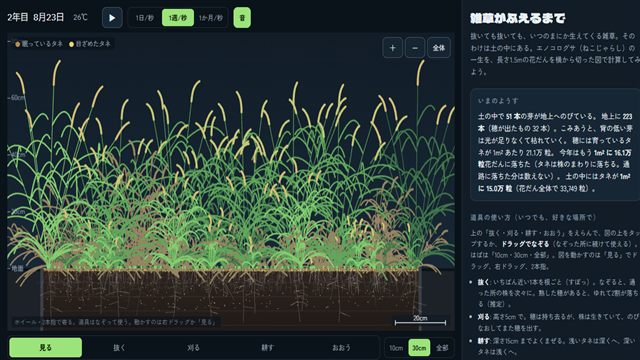
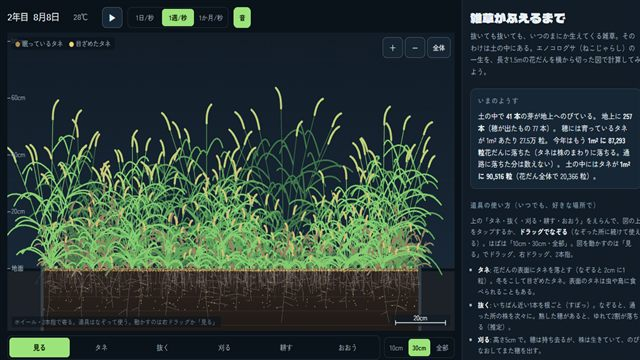
v005-drop-seed 雑草がふえるまで: まっさらな土から始め、はじめに「なんのタネを落とす？」メニュー（竹などは準備中）、「タネ」の道具で自分で落とす。落ちるタネの見た目は描いている穂からだけに

diff --git a/weed-growth/index.html b/weed-growth/index.html
@@ -20,6 +20,26 @@
     <div id="frame"><canvas id="cv" aria-label="細長い花だんを横から切った図。上は地上の株、下は土の中のタネと根。ホイールや2本指で、タネや根の先の中まで寄れる"></canvas>
       <div class="zoom" role="group" aria-label="ズーム"><button class="btn icon" id="zIn" aria-label="寄る" title="寄る">＋</button><button class="btn icon" id="zOut" aria-label="はなれる" title="はなれる">−</button><button class="btn small" id="zAll">全体</button></div>
       <div class="tip" id="tip" hidden></div>
+      <div class="menu" id="menu" role="dialog" aria-label="なんのタネを落とす？">
+        <div class="menu-in">
+          <h2 class="menu-h">なんのタネを落とす？</h2>
+          <p class="menu-p">タネのない、まっさらな花だん（5月1日）。タネをえらんで、図の上をタップ（なぞる）して何粒か落としてみよう。</p>
+          <div class="menu-g">
+            <button class="mcard" data-sp="foxtail">
+              <svg viewBox="0 0 64 64" aria-hidden="true"><g fill="none" stroke-linecap="round"><path d="M32 60 C31 44 30 30 34 14" stroke="#7dc66a" stroke-width="2.5"/><path d="M32 52 C24 42 18 38 10 36 M32 46 C40 38 46 34 54 33" stroke="#84cd70" stroke-width="2.5"/><path d="M34 14 C38 8 44 6 48 8" stroke="#d6be76" stroke-width="7"/></g></svg>
+              <b>エノコログサ</b><small>ねこじゃらし。夏の草。1本で1万粒ものタネ</small></button>
+            <button class="mcard" disabled>
+              <svg viewBox="0 0 64 64" aria-hidden="true"><g fill="none" stroke="#7fae8a" stroke-width="3" stroke-linecap="round"><path d="M24 60V8M40 60V16"/><path d="M20 20h8M20 36h8M36 28h8M36 44h8"/><path d="M8 56 C20 52 44 52 58 56" stroke="#a08a6a"/></g></svg>
+              <b>竹</b><small>地下の茎でふえる（準備中）</small></button>
+            <button class="mcard" disabled>
+              <svg viewBox="0 0 64 64" aria-hidden="true"><g fill="none" stroke-linecap="round"><path d="M32 60V30" stroke="#7dc66a" stroke-width="2.5"/><circle cx="32" cy="20" r="11" stroke="#d8dde4" stroke-width="2" stroke-dasharray="2 3"/><path d="M14 58 L24 50 M50 58 L40 50" stroke="#84cd70" stroke-width="3"/></g></svg>
+              <b>タンポポ</b><small>綿毛で遠くへ飛ぶ（準備中）</small></button>
+            <button class="mcard" disabled>
+              <svg viewBox="0 0 64 64" aria-hidden="true"><g fill="none" stroke-linecap="round"><path d="M8 52 C20 46 30 50 32 44 C34 50 46 46 56 52" stroke="#b07a6a" stroke-width="3"/><g fill="#7dc66a" stroke="none"><ellipse cx="18" cy="46" rx="5" ry="3"/><ellipse cx="46" cy="46" rx="5" ry="3"/><ellipse cx="32" cy="40" rx="4" ry="3"/></g><circle cx="32" cy="36" r="3" fill="#e8c45a" stroke="none"/></g></svg>
+              <b>スベリヒユ</b><small>抜いても実が熟す（準備中）</small></button>
+          </div>
+        </div>
+      </div>
       <div class="legend fl" id="legendFl"><span><i class="dot" style="background:#b58a52"></i>眠っているタネ</span><span><i class="dot" style="background:#f0cf72"></i>目ざめたタネ</span></div>
       <div class="zhint" id="zhint">ホイール・2本指で寄る。道具はなぞって使う。動かすのは右ドラッグか「見る」</div>
     </div>
@@ -50,8 +70,9 @@
 
     <section>
       <h2>道具の使い方（いつでも、好きな場所で）</h2>
-      <p class="cap">上の「抜く・刈る・耕す・おおう」をえらんで、図の上をタップするか、<b>ドラッグでなぞる</b>（なぞった所に続けて使える）。はばは「10cm・30cm・全部」。図を動かすのは「見る」でドラッグ、右ドラッグ、2本指。</p>
+      <p class="cap">上の「タネ・抜く・刈る・耕す・おおう」をえらんで、図の上をタップするか、<b>ドラッグでなぞる</b>（なぞった所に続けて使える）。はばは「10cm・30cm・全部」。図を動かすのは「見る」でドラッグ、右ドラッグ、2本指。</p>
       <ul class="cap tools-note">
+        <li><b>タネ</b>: 花だんの表面にタネを落とす（なぞると 2cm に1粒）。冬をこして目ざめたタネ。表面のタネは虫や鳥に食べられることもある。</li>
         <li><b>抜く</b>: いちばん近い1本を根ごと（すぽっ）。なぞると、通った所の株を次々に。熟した穂があると、ゆれて2割が落ちる（推定）。</li>
         <li><b>刈る</b>: 高さ5cm で。穂は持ち去るが、株は生きていて、のびなおしてまた穂を出す。</li>
         <li><b>耕す</b>: 深さ15cm までよくまぜる。浅いタネは深くへ、深いタネは浅くへ。</li>

diff --git a/weed-growth/js/ui.js b/weed-growth/js/ui.js
@@ -2,7 +2,7 @@
 'use strict';
 const $ = id => document.getElementById(id);
 const SPEEDS = [['1日<span class="ps">/秒</span>', 1], ['1週<span class="ps">/秒</span>', 7], ['1か月<span class="ps">/秒</span>', 30]];   // 狭い画面では「/秒」を隠す
-const TOOLS = [['見る', 'look'], ['抜く', 'pull'], ['刈る', 'mow'], ['耕す', 'till'], ['おおう', 'cover']];
+const TOOLS = [['見る', 'look'], ['タネ', 'seed'], ['抜く', 'pull'], ['刈る', 'mow'], ['耕す', 'till'], ['おおう', 'cover']];
 const WIDTHS = [['10cm', 0.1], ['30cm', 0.3], ['全部', 2.2]];
 const UI = { speed: 7, playing: true, lastRo: 0, lastTl: 0 };
 
@@ -21,11 +21,11 @@ function setPressed(el, v) { el.setAttribute('aria-pressed', String(!!v)); }
 
 function buildUI() {
   seg($('segSpeed'), SPEEDS, UI.speed, v => { UI.speed = v; });
-  seg($('segTool'), TOOLS, TOOL, v => { TOOL = v; cv.classList.toggle('tool', v !== 'look'); });
+  setTool(TOOL);
+  for (const b of $('menu').querySelectorAll('.mcard[data-sp]')) b.onclick = () => chooseSeed(b.dataset.sp);
   seg($('segWidth'), WIDTHS, TOOL_W, v => { TOOL_W = v; });
   seg($('segScen'), Object.entries(SCENARIOS).map(([k, v]) => [v.name, k]), S.scen, v => {
-    restartSim(v); $('scenNote').textContent = SCENARIOS[v].note; UI.lastTl = 0;
-    if (SCENARIOS[v].one) aimAt(BED_W / 2, 0.01, 0.1); else resetView();   // 1粒は、そのタネのそばから
+    startScenario(v);
   });
   $('scenNote').textContent = SCENARIOS[S.scen].note;
   $('play').onclick = () => { UI.playing = !UI.playing; syncPlay(); };
@@ -50,6 +50,22 @@ function buildUI() {
     if (d < S.day - 0.5) { restoreSnap(snapIndexAt(Math.max(0, d))); UI.lastTl = 0; updateReadout(true); }
   });
 }
+// はじめかた: まっさらな土なら「なんのタネを落とす？」を出して止めておく（タネを落とすと動きだす）
+function startScenario(v) {
+  restartSim(v); $('scenNote').textContent = SCENARIOS[v].note; UI.lastTl = 0;
+  const empty = !!SCENARIOS[v].empty;
+  $('menu').hidden = !empty;
+  if (empty) { UI.playing = false; aimAt(BED_W / 2, 0.14, 0.6, 0.01); viewTick(1); }
+  else { UI.playing = true; resetView(); if (TOOL === 'seed') setTool('look'); }
+  syncPlay(); updateReadout(true);
+}
+function chooseSeed(sp) {   // いまはエノコログサだけ（SPECIES に足した種をここでえらべるように）
+  SP = SPECIES[sp]; $('menu').hidden = true; setTool('seed');
+}
+function setTool(v) {
+  TOOL = v; cv.classList.toggle('tool', v !== 'look');
+  seg($('segTool'), TOOLS, v, t => { TOOL = t; cv.classList.toggle('tool', t !== 'look'); });
+}
 function syncPlay() { $('play').textContent = UI.playing ? '❚❚' : '▶'; $('play').setAttribute('aria-label', UI.playing ? '止める' : '進める'); }
 
 // ---------- 数字といまのようす ----------
@@ -73,8 +89,12 @@ function nowText(c, T) {
   if (S.opts.autoPull) out.push('実験中: 穂が出た株は、その日のうちに抜いている。');
   if (c.up === 0 && c.under === 0) {
     out.push(T < SP.tb ? `寒くて（${T.toFixed(0)}℃）タネは芽を出せない。` : 'いまは地上に株がない。');
-    out.push(bank + (c.bank ? `。そのうち ${Math.round(c.dorm / Math.max(1, c.bank) * 100)}% は眠っている（休眠）。眠っているタネは、冬の寒さで少しずつ目ざめる。` : '。'));
-    if (!c.bank && SCENARIOS[S.scen].one && S.tot.shed === 0 && S.day < 300) out.push('1粒のタネが暖かくなるのを待っている（深さ 1cm）。');
+    out.push(bank + (c.dorm ? `。そのうち ${Math.round(c.dorm / Math.max(1, c.bank) * 100)}% は眠っている（休眠）。眠っているタネは、冬の寒さで少しずつ目ざめる。` : '。'));
+    if (SCENARIOS[S.scen].empty && S.tot.dropped && !S.tot.germ && c.bank) {
+      let top = 0; for (let x = 0; x < NX; x++) top += S.SD[x] + S.SN[x];
+      if (top === c.bank) out.push('落としたタネは地面の表面にある。表面は乾きやすくて芽を出しにくく、虫や鳥に食べられることもある（推定）。1粒だとなかなか出ない。何粒か落とすか、「耕す」で土にまぜると出やすい。');
+    }
+    if (SCENARIOS[S.scen].empty && !S.tot.dropped) out.push('まだタネがない。上の「タネ」をえらんで、花だんの上をタップ（なぞる）してタネを落としてみよう。');
     if (!c.bank && S.tot.shed > 0) out.push('タネがなくなった。もう生えてこない。');
   } else {
     if (c.under) out.push(`土の中で <b>${c.under} 本</b>の芽が地上へのびている。`);

diff --git a/weed-growth/js/model.js b/weed-growth/js/model.js
@@ -63,12 +63,12 @@ function dateOf(day) {
 
 // ---------- 状態 ----------
 const S = {
-  day: 0, scen: 'garden', SD: new Int32Array(NX * NZ), SN: new Int32Array(NX * NZ),
+  day: 0, scen: 'empty', SD: new Int32Array(NX * NZ), SN: new Int32Array(NX * NZ),
   plants: [], nid: 1, sheet: new Uint8Array(NX),
   opts: { xray: true, noDorm: false, autoPull: false },
   tot: null, year: 1, yr: null, ev: [], acc: { d: 0, cold: 0, warm: 0 },
 };
-function zeroTot() { return { shed: 0, lost: 0, decayed: 0, eaten: 0, germ: 0, fatal: 0, emerged: 0, thinned: 0, frost: 0, pulled: 0, removedSeeds: 0, headed: 0 }; }
+function zeroTot() { return { dropped: 0, shed: 0, lost: 0, decayed: 0, eaten: 0, germ: 0, fatal: 0, emerged: 0, thinned: 0, frost: 0, pulled: 0, removedSeeds: 0, headed: 0 }; }
 function zeroYear() { return { shed: 0, emerged: 0, firstEm: false, firstHead: false, firstShed: false, frost: false }; }
 const H = { snaps: [], plants: new Float32Array(MAX_DAYS + 2).fill(NaN), heads: new Float32Array(MAX_DAYS + 2).fill(NaN), bank: new Float32Array(MAX_DAYS + 2).fill(NaN) };
 const DF = new Float32Array(NZ);  // 深さごとの芽の出やすさ
@@ -87,13 +87,11 @@ function logEvent(text, kind) {
 
 function restartSim(scen) {
   S.scen = scen || S.scen; R.s = 12345;
-  S.day = 0; S.year = 1; S.SD.fill(0); S.SN.fill(0); S.plants = []; S.nid = 1; S.sheet.fill(0);
+  const sc = SCENARIOS[S.scen];
+  S.day = sc.startDay || 0; S.year = yearOf(S.day); S.SD.fill(0); S.SN.fill(0); S.plants = []; S.nid = 1; S.sheet.fill(0);
   S.tot = zeroTot(); S.yr = zeroYear(); S.ev = []; S.acc = { d: 0, cold: 0, warm: 0 };
   H.snaps = []; H.plants.fill(NaN); H.heads.fill(NaN); H.bank.fill(NaN);
-  const sc = SCENARIOS[S.scen];
-  if (sc.one) {
-    S.SN[2 * NX + Math.floor(NX / 2)] = 1;   // 1cm の深さ（0.5cm のます目の3段目）
-  } else {
+  if (!sc.empty) {
     const n = Math.round(sc.perM2 * BED_W * BED_D), zmax = Math.round(sc.depth / DZC);
     for (let k = 0; k < n; k++) {
       const i = Math.floor(rnd() * zmax) * NX + Math.floor(rnd() * NX);
@@ -212,7 +210,7 @@ function disperse(p, k) {
     const i = Math.floor(x / DXC);
     if (nd) S.SN[i]++; else S.SD[i]++;
   }
-  if (k > 0 && typeof fxShed === 'function') fxShed(px, Math.max(0.01, p.H), k);   // 見た目だけ
+  if (k > 0 && typeof fxShed === 'function') fxShed(p, k);   // 見た目だけ（穂から落ちるところ）
   if (k > 0 && p.st !== 3 && !S.yr.firstShed) { S.yr.firstShed = true; logEvent('熟したタネが落ちはじめた（' + S.year + '年目）', 'shed'); }
 }
 
@@ -370,6 +368,7 @@ function endStroke(k) {
   if (!k) return;
   const fd = dateOf(S.day), d = `${fd.m}月${fd.d}日 `, len = Math.max(1, Math.round((k.x1 - k.x0) * 100));
   const sd = k.seeds + k.drop ? `（穂のタネ ${k.seeds} 粒を持ち出し、${k.drop} 粒が落ちた）` : '';
+  if (k.tool === 'seed' && k.n) logEvent(d + `タネを ${k.n} 粒落とした（冬をこした、目ざめたタネ）`, 'act');
   if (k.tool === 'pull' && k.n) logEvent(d + `${k.n}本抜いた` + sd, 'act');
   if (k.tool === 'mow' && k.n) logEvent(d + `${k.n}本を高さ ${Math.round(k.h * 100)}cm で刈った` + sd, 'act');
   if (k.tool === 'till' && k.cols.size) logEvent(d + `${k.cols.size}cm を深さ ${Math.round(k.depth * 100)}cm まで耕した` + (k.n ? `（株 ${k.n} 本をすきこんだ）` : ''), 'act');
@@ -379,6 +378,15 @@ function span(k, x0, x1) { if (k) { k.x0 = Math.min(k.x0, x0); k.x1 = Math.max(k
 // 1つのストロークで1回だけ使うための仮の stroke（タップや窓口から呼んだとき）
 function once(tool, fn) { const k = newStroke(tool); const r = fn(k); endStroke(k); return r; }
 
+// タネを落とす（ユーザーが手で）: 表面（0〜5mm）に目ざめたタネを1粒。なぞると 2cm ごとに1粒
+function dropSeed(x, k) {
+  if (!k) return once('seed', k2 => dropSeed(x, k2));
+  if (x < 0 || x >= BED_W) return false;
+  if (k.lastX != null && Math.abs(x - k.lastX) < 0.02) return false;
+  k.lastX = x; k.n++; span(k, x, x);
+  S.SN[clamp(Math.floor(x / DXC), 0, NX - 1)]++; S.tot.dropped++;
+  return true;
+}
 function pullAt(x, y, k) {   // y は地上の高さ（画面でさわった所）。いちばん近い株
   if (!k) return once('pull', k2 => pullAt(x, y, k2));
   let best = null, bd = 1e9;

diff --git a/weed-growth/js/draw.js b/weed-growth/js/draw.js
@@ -7,10 +7,15 @@ const COL = {
   dead: [150, 132, 98], pan: [176, 214, 120], ripe: [214, 190, 118], ink: '#e8f0f4', muted: '#a3b4bf', sheet: '#6d7d8c', acc: '#9be37a',
 };
 const FX = [];   // 落ちるタネの見た目だけ（計算には関係ない）
-function fxShed(x, y, k) {
-  if (FX.length > 120) return;
-  for (let i = 0; i < Math.min(3, k); i++) FX.push({ x, y, vx: (Math.random() - 0.5) * 0.25, vy: 0, t: 0 });
+// 穂から落ちるタネ: いま描いている穂（p._g）のどこかから、ときどき1粒（毎回出すと、ずっと降って見えるので）
+function fxShed(p, k) {
+  if (FX.length > 60 || Math.random() > 0.3) return;
+  const G = p._g; if (!G || !G.pans.length) return;
+  const pn = G.pans[Math.floor(Math.random() * G.pans.length)], q = pn.pts[3 + Math.floor(Math.random() * 8)];
+  FX.push({ x: q.x, y: q.y, vx: (Math.random() - 0.5) * 0.1, vy: 0, t: 0, c: COL.ripe });
 }
+// 手で落としたタネ（さわった高さから。土の中をさわったら少し上から）
+function fxDrop(x, y) { FX.push({ x, y: Math.max(0.04, y), vx: 0, vy: 0, t: 0, c: [240, 207, 114], big: true }); }
 // 抜いたときの「すぽん」（見た目と音だけ。計算には関係ない）: 根ごと土から出て、少し跳ねて傾き、消える。土が飛ぶ
 const PULLFX = [];
 const SND = { on: true, ctx: null, last: 0 };
@@ -109,6 +114,11 @@ function drawScene() {
   drawFX();
   drawRulers();
   drawToolPreview();
+  if (SCENARIOS[S.scen].empty && !S.tot.dropped && $('menu').hidden) {   // まだタネを落としていないとき
+    g.font = '700 15px ' + getComputedStyle(document.body).fontFamily; g.textAlign = 'center';
+    g.fillStyle = COL.acc; g.fillText(TOOL === 'seed' ? '花だんの上をタップ（なぞる）してタネを落とそう ↓' : '「タネ」をえらんで、花だんの上をタップ ↓', VIEW.w / 2, Math.max(30, Y(0) - 60));
+    g.textAlign = 'left';
+  }
 }
 
 // ---------- 土の中 ----------
@@ -351,8 +361,10 @@ function drawPanicles(p, G) {
 // ---------- 見た目だけの動き・ものさし ----------
 function drawFX() {
   if (!FX.length) return;
-  g.fillStyle = COL.ripe ? rgb(COL.ripe) : '#ccc';
-  for (const f of FX) { const d = Math.max(1.5, SP.seedLen * VIEW.s); g.fillRect(X(f.x) - d / 2, Y(f.y) - d / 2, d, d * 0.7); }
+  for (const f of FX) {
+    const d = Math.max(f.big ? 3 : 1.5, SP.seedLen * VIEW.s); g.fillStyle = rgb(f.c || COL.ripe);
+    g.beginPath(); g.ellipse(X(f.x), Y(f.y), d / 2, d * 0.32, 1.2, 0, Math.PI * 2); g.fill();
+  }
 }
 function fxTick(dt) {
   for (const f of FX) { f.vy -= 2.5 * dt; f.x += f.vx * dt; f.y += f.vy * dt; f.t += dt; }

diff --git a/weed-growth/js/main.js b/weed-growth/js/main.js
@@ -35,6 +35,14 @@ function paintSeg(ax, ay, bx, by) {
   if (!STROKE) return;
   const a = toWorld(ax, ay), b = toWorld(bx, by), hw = TOOL_W / 2;
   const x0 = Math.max(0, Math.min(a.x, b.x) - hw), x1 = Math.min(BED_W, Math.max(a.x, b.x) + hw);
+  if (TOOL === 'seed') {   // 押した所に1粒。なぞると 2cm ごとに1粒（落ちていくところも見せる）
+    const n = Math.max(1, Math.ceil(Math.hypot(bx - ax, by - ay) / 3));
+    for (let i = (ax === bx && ay === by) ? n : 1; i <= n; i++) {
+      const w = toWorld(ax + (bx - ax) * i / n, ay + (by - ay) * i / n);
+      if (dropSeed(w.x, STROKE)) fxDrop(w.x, w.y);
+    }
+    updateReadout(true); return;
+  }
   if (TOOL === 'pull') {   // 押した所はいちばん近い株。なぞると、通った線から 10px（1.2cm 以上）以内の株を次々に
     if (ax === bx && ay === by) { const w = toWorld(ax, ay); pullAt(w.x, Math.max(0, w.y), STROKE); }
     else {
@@ -49,7 +57,12 @@ function paintSeg(ax, ay, bx, by) {
   if (TOOL === 'cover') cover(x0, x1, !S.sheet[clamp(Math.floor(a.x / DXC), 0, NX - 1)], STROKE);
   computeLight(); updateReadout(true);
 }
-function paintEnd() { endStroke(STROKE); STROKE = null; UI.lastTl = 0; updateReadout(true); }
+function paintEnd() {
+  const first = STROKE && STROKE.tool === 'seed' && STROKE.n && S.tot.dropped === STROKE.n;
+  endStroke(STROKE); STROKE = null; UI.lastTl = 0;
+  if (first && !UI.playing) { UI.playing = true; syncPlay(); }   // はじめてタネを落としたら動きだす
+  updateReadout(true);
+}
 let tipTimer = 0;
 function onHover(px, py, touch) {
   HOVER = px < 0 ? null : { px, py };
@@ -59,8 +72,7 @@ function onHover(px, py, touch) {
 }
 
 window.addEventListener('resize', () => { resizeView(); UI.lastTl = 0; });
-restartSim('garden');
-buildUI(); resizeView(); syncPlay();
+buildUI(); resizeView(); startScenario('empty');
 setupInput({ tap: () => {}, hover: onHover, isPaint: () => TOOL !== 'look', paintStart, paint: paintSeg, paintEnd });
 requestAnimationFrame(loop);
 

diff --git a/weed-growth/css/style.css b/weed-growth/css/style.css
@@ -30,6 +30,18 @@ button,input{font:inherit;color:inherit}
 .tip{position:absolute;max-width:290px;background:rgba(8,12,18,.9);border:1px solid var(--line2);border-radius:8px;padding:6px 10px;font-size:12px;line-height:1.55;color:var(--muted);pointer-events:none;z-index:3}
 .tip b{color:var(--ink)}
 
+/* はじめに出す「なんのタネを落とす？」 */
+.menu{position:absolute;inset:0;z-index:4;display:flex;align-items:center;justify-content:center;background:rgba(10,18,26,.86);padding:12px;overflow:auto}
+.menu-in{max-width:620px;text-align:center}
+.menu-h{font:400 22px/1.3 var(--f-display);color:var(--ink);letter-spacing:.04em;margin:0 0 6px}
+.menu-p{margin:0 0 14px;color:var(--muted);font-size:13px}
+.menu-g{display:grid;grid-template-columns:repeat(4,1fr);gap:10px}
+.mcard{display:flex;flex-direction:column;align-items:center;gap:4px;border:1px solid var(--line2);background:var(--raise);border-radius:12px;padding:10px 8px;cursor:pointer;line-height:1.35}
+.mcard svg{width:56px;height:56px}
+.mcard b{font-size:14px}
+.mcard small{font-size:11px;color:var(--muted)}
+.mcard:not([disabled]):hover{border-color:var(--acc);box-shadow:0 0 0 1px var(--acc) inset}
+.mcard[disabled]{opacity:.45;cursor:default}
 #tools{display:flex;gap:8px;align-items:center;flex-wrap:wrap}
 #segTool{flex:1;min-width:260px}
 #ro{display:grid;grid-template-columns:repeat(3,1fr);gap:8px}
@@ -105,6 +117,14 @@ button:focus-visible,input:focus-visible{outline:2px solid var(--acc);outline-of
   .zhint{display:none}
   .legend.fl{font-size:10px}
   #panel{border-left:0;padding:14px 14px 40px;overflow:visible}
+}
+@media (max-width: 600px){
+  .menu-g{grid-template-columns:repeat(2,1fr);gap:6px}
+  .mcard{padding:6px 4px;gap:2px}
+  .mcard svg{width:30px;height:30px}
+  .mcard small{font-size:10px}
+  .menu-h{font-size:17px}
+  .menu-p{font-size:11.5px;margin-bottom:8px}
 }
 @media (max-width: 420px){
   #bar{flex-wrap:nowrap}

diff --git a/weed-growth/launcher.html b/weed-growth/launcher.html
@@ -42,7 +42,7 @@ td a{color:var(--ink)}
   </section>
   <section>
     <h2>すべてのバックアップ</h2>
-    <table><tr><td>v004-drag-pull</td><td>道具をドラッグでなぞる・抜くと「すぽっ」・図の株を少なく・寄るとタネは手前の切り口だけ。Git のコミットに記録</td><td>2026-10-15</td></tr><tr><td>v003-lighter</td><td>軽くした（花だん 1.5m×15cm、芽が多いときはまとめて計算）。Git のコミットに記録</td><td>2026-10-15</td></tr><tr><td>v002-stageA</td><td><a href="versions/v002-stageA/index.html">段階A（エノコログサ1種・道具4つ・実験3つ・ズームの中）</a></td><td>2026-10-15</td></tr><tr><td>v001-start</td><td><a href="versions/v001-start/index.html">雛形（new-app.ps1）</a></td><td>2026-10-15</td></tr></table>
+    <table><tr><td>v005-drop-seed</td><td>まっさらな土から・はじめに「なんのタネを落とす？」・「タネ」の道具・落ちるタネの見た目を直した。Git のコミットに記録</td><td>2026-10-15</td></tr><tr><td>v004-drag-pull</td><td>道具をドラッグでなぞる・抜くと「すぽっ」・図の株を少なく・寄るとタネは手前の切り口だけ。Git のコミットに記録</td><td>2026-10-15</td></tr><tr><td>v003-lighter</td><td>軽くした（花だん 1.5m×15cm、芽が多いときはまとめて計算）。Git のコミットに記録</td><td>2026-10-15</td></tr><tr><td>v002-stageA</td><td><a href="versions/v002-stageA/index.html">段階A（エノコログサ1種・道具4つ・実験3つ・ズームの中）</a></td><td>2026-10-15</td></tr><tr><td>v001-start</td><td><a href="versions/v001-start/index.html">雛形（new-app.ps1）</a></td><td>2026-10-15</td></tr></table>
   </section>
 </main>
 </body>

diff --git a/_dev/tools/thumb.html b/_dev/tools/thumb.html
@@ -21,8 +21,8 @@ const click = (w, sel) => { const e = w.document.querySelector(sel); if (e) e.cl
 const SETUP = {
   // いのちの系統樹（はじめの画面のまま）
   'tree-of-life': async w => { await wait(5000); const h = w.__trofli; h.V.resize(); h.V.settle(); },   // はじめの画面（哺乳類の目のならび）
-  // 雑草がふえるまで（ふつうの庭の2年目の8月: 穂がそろい、土の中にタネ・根）
-  'weed-growth': async w => { await wait(800); const h = w.__wegr; h.set('play', false); h.run(365 + 160, 1); h.draw(); await wait(300); },
+  // 雑草がふえるまで（はじめのメニューを閉じ、ふつうの庭の2年目の8月: 穂がそろい、土の中にタネ・根）
+  'weed-growth': async w => { await wait(800); const h = w.__wegr; w.startScenario('garden'); h.set('play', false); h.run(365 + 160, 1); h.draw(); await wait(300); },
   // ほこりが積もるまで（2日たって、ふとんをはたいた直後: 舞い上がった皮ふと繊維、すみ・家具の上に積もった層）
   'house-dust': async w => { await wait(800); const h = w.__hodu; h.S.playing = false; h.S.speed = 3600; h.simRun(2 * 86400); h.S.speed = 1; h.act('bed'); h.simRun(15); await wait(300); },
   // 脱毛のしくみ（剃ってから光をあてた直後: 伸びている毛の根もとが熱で光る）

diff --git a/weed-growth/js/data.js b/weed-growth/js/data.js
@@ -69,10 +69,10 @@ const SPECIES = {
 
 // ---------- はじめかた ----------
 const SCENARIOS = {
+  empty:  { name: 'まっさらな土', perM2: 0, empty: true, startDay: 61,
+    note: 'タネのない土（5月1日から）。「タネ」の道具で、花だんにタネを落としてみよう。' },
   garden: { name: 'ふつうの庭', perM2: 1000, awake: 0.6, depth: 0.15,
     note: '土の中にエノコログサのタネが 1m² に 1,000粒（畑のおよそ半分はこれより多い: Forcella ら 1993）。' },
   field:  { name: '草ぼうぼうの空き地', perM2: 15000, awake: 0.6, depth: 0.10,
     note: '去年たくさん実った空き地。1m² に 15,000粒（推定）。' },
-  one:    { name: 'タネ1粒だけ', perM2: 0, one: true,
-    note: 'まっさらな土の 1cm の深さに、目ざめたタネを1粒だけ。' },
 };

diff --git a/weed-growth/DEVNOTES.md b/weed-growth/DEVNOTES.md
@@ -5,11 +5,11 @@
 エノコログサ（ねこじゃらし）の一生を、長さ1.5m・幅30cm の花だん（計算は手前半分の 15cm）を横から切った断面で計算するアプリ。企画は `PLAN.md`。
 
 ## 別セッションで続けるとき（まずここ）
-- **いまの状態**: v004-drag-pull（2026-10-15。道具をドラッグでなぞって使う、抜くと「すぽっ」、まとめる株を増やして図をすっきり、寄るとタネは手前 1cm の切り口だけ）。その前は v003-lighter（花だん 1.5m×15cm）、v002-stageA（段階A）。保管庫（`archive.html`）に掲載。入口には載せない（RULES 8.1）。英語はまだ（入口へ移すときに）。
-- **次にやること**: ユーザーに見てもらって感想を聞く。そのあと `PLAN.md` の段階B（竹＝地下茎、タンポポ＝綿毛、スベリヒユ）。種を足すときは `data.js` の `SPECIES` に足し、`model.js` の `SP` を切りかえる形に（株の形 `shapes.js` は種ごとに関数を分ける）。
+- **いまの状態**: v005-drop-seed（2026-10-15。まっさらな土から始め、はじめに「なんのタネを落とす？」のメニュー、「タネ」の道具で自分で落とす。穂から落ちるタネの見た目を直した）。その前は v004-drag-pull（道具をドラッグでなぞって使う、抜くと「すぽっ」、まとめる株を増やして図をすっきり、寄るとタネは手前 1cm の切り口だけ）。その前は v003-lighter（花だん 1.5m×15cm）、v002-stageA（段階A）。保管庫（`archive.html`）に掲載。入口には載せない（RULES 8.1）。英語はまだ（入口へ移すときに）。
+- **次にやること**: ユーザーに見てもらって感想を聞く。そのあと `PLAN.md` の段階B（竹＝地下茎、タンポポ＝綿毛、スベリヒユ）。はじめのメニュー `#menu` にカードがある（いまは「準備中」で押せない）。種を足すときは `data.js` の `SPECIES` に足し、カードに `data-sp` をつけると `chooseSeed()` が `SP` を切りかえる（株の形 `shapes.js` は種ごとに関数を分ける。1つの花だんに2種まぜるなら、株ごとに種を持たせる）。
 - **読む順**: `../RULES.md` → このファイル → 下の「ファイル構成」で関係するファイルだけ。数値を変えるなら `js/data.js` だけ。
 - **動かし方**: サーバー `apps`（`.claude/launch.json`）で http://localhost:8765/weed-growth/ 。
-- **デバッグ用**: `window.__wegr` — `S`（状態: `day` 始めからの日数・`SD` `SN` 眠っている／目ざめたタネのます目・`plants`・`sheet`・`opts`・`tot` 合計・`yr` 今年・`ev` できごと）、`H`（`snaps` 巻きもどし用・`plants` `heads` `bank` 日ごとの数）、`counts()`、`run(日, h=1)`（描かずに進める。ペインが裏だと rAF が止まるので）、`draw()`、`restart(scen)`、`pullAt(x, y)` `mow(x0, x1, h)` `till(x0, x1, d)` `cover(x0, x1, on)`、`jump('seed'|'sprout'|'root'|'flower')`、`aimAt(x, y, 幅)`、`describeAt(px, py)`、`restoreSnap(i)` `snapIndexAt(day)`、`set(k, v)`（`speed` `play` か `opts` の名前）、`tool(t, w)`、`stroke([[px,py],…])`（画面の点の列でドラッグをまねる。1点ならタップ）。例外は `window.__wegrErr`。寄る動きを一気に終わらせるには `viewTick(5)`。
+- **デバッグ用**: `window.__wegr` — `S`（状態: `day` 始めからの日数・`SD` `SN` 眠っている／目ざめたタネのます目・`plants`・`sheet`・`opts`・`tot` 合計・`yr` 今年・`ev` できごと）、`H`（`snaps` 巻きもどし用・`plants` `heads` `bank` 日ごとの数）、`counts()`、`run(日, h=1)`（描かずに進める。ペインが裏だと rAF が止まるので）、`draw()`、`restart(scen)`、`pullAt(x, y)` `mow(x0, x1, h)` `till(x0, x1, d)` `cover(x0, x1, on)`、`jump('seed'|'sprout'|'root'|'flower')`、`aimAt(x, y, 幅)`、`describeAt(px, py)`、`restoreSnap(i)` `snapIndexAt(day)`、`set(k, v)`（`speed` `play` か `opts` の名前）、`tool(t, w)`（`'seed'` `'pull'` `'mow'` `'till'` `'cover'` `'look'`）、`startScenario('empty'|'garden'|'field')`（ページの関数）、`stroke([[px,py],…])`（画面の点の列でドラッグをまねる。1点ならタップ）。例外は `window.__wegrErr`。寄る動きを一気に終わらせるには `viewTick(5)`。
 - **区切りごとに**: 「確認のしかた」と smoke.ps1 → 下の「状態」に1行 → `launcher.html` の表 → 公開前チェック → commit（節目だけ versions/ へコピーしてカードに。RULES 3章）。
 - **ユーザーの好み**: 正確さ（推定と測った値を分けて書く）。1つの花だんで、いつでも自分で試せる形（押して進める型にしない）。濃紺の線の図。スマホでは図と数字を上に固定。ホイールで中まで寄れること（依頼のときの言葉）。
 
@@ -20,17 +20,19 @@
 | `index.html` | 骨組み（doctype なし）。左（スマホは上に固定）: `#bar`（日付・気温・再生・速さ）`#frame`（`#cv`・ズーム・`#tip` 説明・色の見方）`#tools`（道具 `#segTool`・はば `#segWidth`）`#ro`（地上の株・土の中のタネ・今年落ちたタネ）。右（スマホは下）: いまのようす `#now`・道具の使い方・時間のグラフ `#tl`・寄って見る `#jumps`・はじめから `#segScen`・実験 `#tgXray` `#tgNoDorm` `#tgAutoPull`・できごと `#log`・しくみ・簡単にしているところ・このアプリについて／おもな出どころ | 読み込み順: data → model → view → shapes → draw → micro → ui → main |
 | `css/style.css` | PC は右パネル 370px。899px 以下は `#stage` を sticky で上に固定、420px 以下は道具のボタンを詰める | |
 | `js/data.js` | 花だん `BED_W` `BED_D` `SOIL_D`、タネのます目 `NX` `DXC` `NZ` `DZC`、光のます目 `LX` `LY` `LC`・高さの段 `HEDGE`、`MAX_DAYS` `SNAP_EVERY`、気温 `TOKYO_T` `T_NOISE` `START_DOY`、種の値 `SPECIES.foxtail`、はじめかた `SCENARIOS` | |
-| `js/model.js` | 乱数 `R` `rnd` `gauss` `poisson` `binom`、暦と気温 `tempAt` `dayLength` `dateOf` `yearOf`、状態 `S`・記録 `H`、深さの出やすさ `DF` `ZG`、`restartSim`、光 `computeLight` `crownCells` `binOf` `binFrac`、`seedsStep`（芽を出すのは毎コマ、ほかは `SLOW_EVERY` 5日ごと）、`newPlant` `plantsStep` `disperse` `killPlant` `headCdNow`、`stepModel`、`counts` `record`、巻きもどし `takeSnap` `restoreSnap` `snapIndexAt`、まとめる `groupSeedlings` `GROUP_AT`、道具 `newStroke` `endStroke`（1回のドラッグを1行の記録に）`pullAt(x, y, k)` `mow(x0, x1, h, k)` `till(x0, x1, d, k)` `cover(x0, x1, on, k)`（k を省くとその場で1回） | 株の `st`: 0 土の中 / 1 葉 / 2 穂 / 3 枯れ。`n` まとめた本数 |
+| `js/model.js` | 乱数 `R` `rnd` `gauss` `poisson` `binom`、暦と気温 `tempAt` `dayLength` `dateOf` `yearOf`、状態 `S`・記録 `H`、深さの出やすさ `DF` `ZG`、`restartSim`、光 `computeLight` `crownCells` `binOf` `binFrac`、`seedsStep`（芽を出すのは毎コマ、ほかは `SLOW_EVERY` 5日ごと）、`newPlant` `plantsStep` `disperse` `killPlant` `headCdNow`、`stepModel`、`counts` `record`、巻きもどし `takeSnap` `restoreSnap` `snapIndexAt`、まとめる `groupSeedlings` `GROUP_AT`、道具 `newStroke` `endStroke`（1回のドラッグを1行の記録に）`dropSeed(x, k)`（表面に目ざめたタネを1粒。なぞると 2cm ごと。`tot.dropped`）`pullAt(x, y, k)` `mow(x0, x1, h, k)` `till(x0, x1, d, k)` `cover(x0, x1, on, k)`（k を省くとその場で1回） | 株の `st`: 0 土の中 / 1 葉 / 2 穂 / 3 枯れ。`n` まとめた本数 |
 | `js/view.js` | `VIEW`（`s` px/m・`cx` `cy`・`anim`）、`FIELD_MIN` 0.4mm、`X()` `Y()` `toWorld()` `fieldW()` `fitScale()`、`resizeView()` `resetView()` `clampView()` `zoomAt()` `panBy()` `aimAt()` `viewTick()`、`setupInput(H)`（H = `tap` `hover` `isPaint` `paintStart` `paint` `paintEnd`。道具をえらんでいると左ドラッグ・1本指は塗る、右・中ドラッグと2本指は動かす） | `cv` `g` |
 | `js/shapes.js` | `mulberry()` `h01()` `qpt()`、`seedSpot(i, k)`（ます目の k 番目のタネの位置）、`plantGeom(p)`（茎・葉・穂。`p._g` にしまう）`panAt()`、`rootGeom(p)`（根と根の先 `tips`）、`sproutGeom(p)` | |
-| `js/draw.js` | `COL`、抜いたときの「すぽっ」`PULLFX` `fxPull` `pullFxTick` `drawPullFX`・音 `SND` `popSound`（WebAudio の短い音。`#tgSnd` で切る）、見た目だけの落ちるタネ `FX` `fxShed` `fxTick`、描くタネの数 `seedShown` `SLICE`、`drawScene()`（空 → 土 → 土の中 → シート → 株 → FX → ものさし → 道具の範囲）、`drawSeedsIn()` `seedCap()` `drawSoilLife()`（タネ・根・土の中の芽）`drawSheet()`、`drawPlants()`（近く: 1本ずつ面で）`drawPlantsFar()`（遠く: 色ごとにまとめて線で）`drawPaniclesFar()` `drawPanicles()` `panState()`、`drawRulers()` `fmtLen()`、`TOOL` `TOOL_W` `HOVER` `drawToolPreview()` | |
+| `js/draw.js` | `COL`、穂から落ちるタネ `fxShed(p, k)`（いま描いている穂 `p._g` の点から、3割の確からしさで1粒）・手で落とすタネ `fxDrop`、まだタネを落としていないときの案内の字、抜いたときの「すぽっ」`PULLFX` `fxPull` `pullFxTick` `drawPullFX`・音 `SND` `popSound`（WebAudio の短い音。`#tgSnd` で切る）、見た目だけの落ちるタネ `FX` `fxShed` `fxTick`、描くタネの数 `seedShown` `SLICE`、`drawScene()`（空 → 土 → 土の中 → シート → 株 → FX → ものさし → 道具の範囲）、`drawSeedsIn()` `seedCap()` `drawSoilLife()`（タネ・根・土の中の芽）`drawSheet()`、`drawPlants()`（近く: 1本ずつ面で）`drawPlantsFar()`（遠く: 色ごとにまとめて線で）`drawPaniclesFar()` `drawPanicles()` `panState()`、`drawRulers()` `fmtLen()`、`TOOL` `TOOL_W` `HOVER` `drawToolPreview()` | |
 | `js/micro.js` | 寄ったときの中: `offerLabel()` `drawLabels()`（名札は画面の中央にいちばん近い1つだけ）`tag()` `caption()`、`drawSeedDetail()`（殻・胚乳・胚盤・幼芽・幼根。芽を出すと胚乳が減る）、`drawRootTip()`（根冠・分裂・のびる・根毛・中心柱・細胞の壁）、`drawSpikelet()`（剛毛・小穂・おしべ・めしべ・熟した実） | |
-| `js/ui.js` | `SPEEDS` `TOOLS` `WIDTHS` `UI`、`buildUI()` `seg()`、`updateReadout()` `nowText()` `renderLog()`、時間のグラフ `drawTimeline()` `tlDays()` `TLM`（押すとその日へもどる）、説明 `describeAt()` `seedText()` `plantText()` `showTip()`、`jump(kind)` | `$()` |
+| `js/ui.js` | `SPEEDS`（狭い画面では「/秒」を隠す）`TOOLS` `WIDTHS` `UI`、`buildUI()` `seg()`、はじめかた `startScenario()`（まっさらな土ならメニューを出して止める）`chooseSeed()` `setTool()`、`updateReadout()` `nowText()` `renderLog()`、時間のグラフ `drawTimeline()` `tlDays()` `TLM`（押すとその日へもどる）、説明 `describeAt()` `seedText()` `plantText()` `showTip()`、`jump(kind)` | `$()` |
 | `js/main.js` | `advance()`（1フレーム 24ms まで計算。重いときはゆっくりになる）`frame()` `loop()`、道具のドラッグ `STROKE` `paintStart` `paintSeg`（前の点から今の点まで。抜くは 4px ごと、通った線から 10px 以内）`paintEnd`、`onHover()`、`window.__wegr` | |
 
 ## しくみ
 
 ### 1. 花だんと時間
+- はじめかた: まっさらな土（5月1日から。はじめに「なんのタネを落とす？」を出し、タネを落とすまで止めておく。最初のひと塗りで動きだす）、ふつうの庭（1,000粒/m²）、草ぼうぼうの空き地（15,000粒/m²）。後の2つは3月1日から。
+- 手で落としたタネは表面（0〜5mm）の目ざめたタネ。表面は出にくく（0.3倍）食べられもするので、1粒だと 90日のうちに芽が出るのは 20回に2回ほど、10粒なら 20回に19回（v005 で測った）。画面にそう書いて、何粒か落とす・耕すをすすめる。
 - 長さ 1.5m（横）× 幅 30cm。計算は手前半分（奥行き 15cm、y = 0 が通路の縁、0.15 がまん中）。向こう半分は鏡うつしで同じとし、まん中をこえて落ちたタネは入れかわる（y が 0〜0.30 なら花だん、外は通路）。奥行きは1つにまとめる。土は 20cm まで見せる。始まりは1年目の3月1日。「n年目」は3月1日から次の2月末まで。
 - 気温は東京の平年値（1991〜2020）の月平均を線でつなぎ、日ごとのゆらぎ（AR(1)、標準偏差 2℃、決まった乱数なので道具を使っても天気は同じ）。日の長さは緯度 35.7°。
 - 1コマ = 0.25日（1日/秒）・0.5日（1週/秒）・1日（1か月/秒）。
@@ -74,7 +76,7 @@
 2. http://localhost:8765/weed-growth/ を開き、`__wegr.set('play',false); __wegr.run(150,0.5)`（1年目の7月末）→ 穂のそろった株・根・土の中のタネが見える。`__wegrErr` が空。
 3. `__wegr.jump('seed')`・`'root'`・`'flower'` → `viewTick(5); __wegr.draw()` で、タネの断面・根の先の細胞と根毛・小穂の花が描かれ、名札が出る。
 4. 道具: `tool('mow',0.1); stroke([[X(0.1),Y(0)-40],[X(0.6),Y(0)-40]])` で、なぞった所に 5cm より高い株がなく、できごとに1行。耕す・おおう（同じ所をもう一度なぞると外す）・抜く（なぞると通った所だけ。`PULLFX` が増える）も同じ。本物のマウスでも、道具をえらんで左ドラッグで塗れて、図が動かないこと。`cover(0,0.5,true)` → `run(60)` でシートの下の株が 0。時間のグラフを押して（`restoreSnap(snapIndexAt(30))`）もどれる。
-5. 「タネ1粒だけ」を押すと、そのタネのそばへ寄る。`run(75,0.5)` で芽が出て根がある。
+5. ページを開くと「なんのタネを落とす？」が出て止まっている。エノコログサを押すと「タネ」の道具になり、図をタップ・なぞるとタネが落ちて（`FX`）動きだす。「ふつうの庭」にするとメニューが消えて動く、「まっさらな土」でまた出る。穂から落ちるタネ `FX` がどれも穂の点から出ている。
 6. 重さ: `restart('garden')` から30日ずつ3年進め、`frame()` が 20ms 以下・`stepModel(1)` が 10ms 以下・`S.plants.length` が 3,000 以下。
 7. 幅 375px（`resize_window` mobile）で横にはみ出さない（`scrollWidth` 375）、図・道具・数字が上に固定、道具の「おおう」が1行。
 
@@ -83,3 +85,4 @@
 - 2026-10-15 v002-stageA: 段階A。エノコログサ1種、土の中のタネ（ます目）・芽・株（1本ずつ）・光の取りあい・穂・落ちるタネ、道具4つ（抜く・刈る・耕す・おおう）、実験3つ、はじめかた3つ、巻きもどし、ズームの中（タネの断面・根の先・小穂）。versions/v002-stageA に保存。
 - 2026-10-15 v003-lighter: ユーザー「数を間引いて、範囲も3/4くらいに。おもすぎる」→ 花だんを 1.5m（3/4）× 計算 15cm（向こう半分は鏡うつし）にして数を 37% に、芽が 900 より多いときは同じころの小さな芽をまとめて計算（`groupSeedlings`）、葉を面で描くのは 8px から。いちばん混む時期の 1フレーム 180ms → 10ms。
 - 2026-10-15 v004-drag-pull: ユーザー「抜く にすぽんという演出」「刈る・覆うなどはドラッグ操作でスムーズに」「まだ密度高いかも」「デバッグも」→ 道具はドラッグでなぞって使う（1回のドラッグ = 記録1行）、抜くと根ごと「すぽっ」（音つき、切れる）、まとめる株を 250本から・2cm の列・0.2g まで（図の株の数 約1/6）、小さな枯れた株は早く消す、寄るとタネは手前 1cm の切り口だけ、スマホで速さの「/秒」を隠す。抜くをなぞると広く抜きすぎた・「すぽっ」の字が重なった・スマホの上の行がつまった、を直した。
+- 2026-10-15 v005-drop-seed: ユーザー「最初は雑草1本から。タネがない状態から」→「タネを落とすところをユーザーにやらせる。なんのタネかは最初にメニュー」「将来は別の植物も選べるといい」「開いた直後のすっからかんを緩和」、「空中からずっとタネがふっている」→ まっさらな土（5月1日）から始め、メニュー（エノコログサ、竹・タンポポ・スベリヒユは準備中）、「タネ」の道具。落ちるタネの見た目は描いている穂の点からだけ、3割に減らした（前は株の高さの空中から毎回出ていて、枯れて倒れた株でも空中から降っていた）。「タネ1粒だけ」のはじめかたは消した。

diff --git a/weed-growth/PLAN.md b/weed-growth/PLAN.md
@@ -15,6 +15,7 @@
 
 ## 形
 - **1つの花だん**（長さ 1.5m・幅 30cm。計算は手前半分の 15cm）を横から切った断面。2026-10-15 に重いので 2m×30cm から小さくした。上は空気 1m、下は土 20cm。1つの標本で、道具はいつでも好きな場所でマウス（指）で使う（[ユーザーの好み] 並べて比べない）。
+- 始まりはタネのない土（2026-10-15 ユーザー）。はじめに「なんのタネを落とす？」のメニューを出し、自分でタネを落とす（開いた直後のすっからかんを防ぐ。段階Bの種もここでえらべるように）。
 - 時間は日ごと（1日・1週・1か月/秒）。時間のバーで巻きもどして試しなおせる（10年まで）。
 - **ホイール（つまむ）で本当の大きさまで寄れる**: 花だん全体（1.5m）→ 1本 → タネ（2mm）の中の胚・胚乳 → 根の先の細胞（10〜20µm）→ 穂の小さな花。寄るほど細かく描く（セマンティックズーム）。マウスを乗せると説明。
 - 絵は濃紺に細い線と淡い面（ほかのアプリと同じ）。スマホでは図とおもな数を上に固定し、道具・グラフ・説明は下でスクロール。
